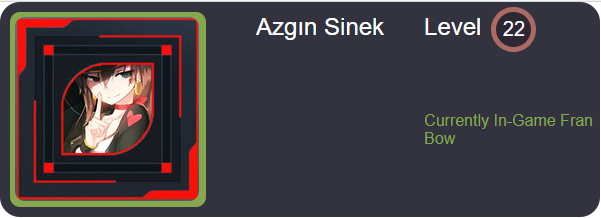
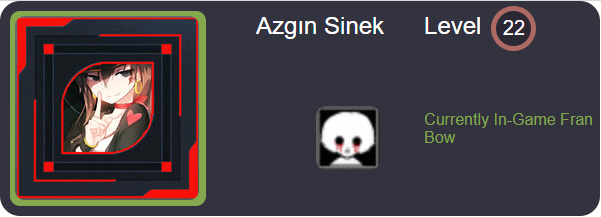
SteamCard V1.0

diff --git a/CreateCard.js b/CreateCard.js
@@ -2,27 +2,22 @@ let Userid = "";
 // Ur own steam id64
 let webkey = ""
 // ur own steam web api key
+
+// URLS
 const sumaryUrl = `https://corsproxy.io/?https%3A%2F%2Fapi.steampowered.com/ISteamUser/GetPlayerSummaries/v0002/?key=${webkey}&steamids=${Userid}`
 const badgeUrl =`https://corsproxy.io/?https%3A%2F%2Fapi.steampowered.com/IPlayerService/GetSteamLevel/v1/?key=${webkey}&steamid=${Userid}`
 
 const gamesURL = `https://corsproxy.io/?https%3A%2F%2Fapi.steampowered.com/IPlayerService/GetOwnedGames/v1/?key=${webkey}&format=json&steamid=${Userid}&include_appinfo=1`
 
+// FETCHS
 
-let summary = await fetch(sumaryUrl)
-.then(res => res.json())
-.then(data => {
-    return data
-});
+let summary = await fetch(sumaryUrl).then(res => res.json()).then(data => {return data});
 let level = await fetch(badgeUrl).then(res => res.json()).then(data => {return data});
-
 let mygame = await fetch(gamesURL).then(res => res.json()).then(data => {return data});
-console.log(level)
-console.log(summary)
 
+// FUNCTION
 
-
-
-function createAcard(userdata, leveldata) {
+function createAcard(userdata, leveldata, games) {
 
     //all card elements
 
@@ -34,6 +29,7 @@ function createAcard(userdata, leveldata) {
             avatarimg = document.createElement('img'),
 
         firstdivmidarea = document.createElement('div'),
+        gameimgarea = document.createElement('div'),
         nickarea = document.createElement('div'),
             usernick = document.createElement('div'),
 
@@ -47,11 +43,15 @@ function createAcard(userdata, leveldata) {
         isActive = document.createElement('div');
 
 
+    // appends and add class
+
     firstdiv.classList.add("first")
     
     const ilkdiv = document.querySelector(".Steamcard");
     
     ilkdiv.appendChild(firstdiv);
+
+    // MAIN DIVS
 
     firstdiv.appendChild(firstdivleftarea);
         firstdivleftarea.classList.add("firstleft");
@@ -60,13 +60,20 @@ function createAcard(userdata, leveldata) {
     firstdiv.appendChild(firstdivrightarea);
         firstdivrightarea.classList.add("firstright");
 
+        //LEFT DIVS
     firstdivleftarea.appendChild(avatarcolorarea);
     avatarcolorarea.appendChild(avatararea);
         avatararea.classList.add("area")
     avatararea.appendChild(avatarimg);
 
+        //MID DIVS
+
     firstdivmidarea.appendChild(nickarea);
+    firstdivmidarea.appendChild(gameimgarea);
+        gameimgarea.classList.add("GameIconArea");
     nickarea.appendChild(usernick);
+
+        //RIGHT DIVS
 
     firstdivrightarea.appendChild(levelarea);
         levelarea.appendChild(leveltext);
@@ -75,6 +82,7 @@ function createAcard(userdata, leveldata) {
                 levelcirclein.appendChild(levelcircletext);
     firstdivrightarea.appendChild(badgearea);
     firstdivrightarea.appendChild(isActive);
+
     //firstdiv left area
 
     //avatar border colors
@@ -113,6 +121,7 @@ function createAcard(userdata, leveldata) {
     newImg.src = userdata.response.players[0].avatarfull;
 
     avatarimg.classList.add('avatarCSS')
+    
     //firstdiv Mid area
 
     usernick.textContent = `${userdata.response.players[0].personaname}`
@@ -123,6 +132,7 @@ function createAcard(userdata, leveldata) {
 
 
     // level
+
     leveltext.textContent = "Level";
     levelcircletext.textContent = `${leveldata.response.player_level}`;
     levelcircle.classList.add("circleCSS");
@@ -130,7 +140,9 @@ function createAcard(userdata, leveldata) {
     levelcircletext.classList.add("circletext");
     leveltext.classList.add("leveltext");
     levelarea.classList.add("levelarea");
+
     //first digit of level
+
     const firstdigitlevel = String(leveldata.response.player_level)[0];
     switch (parseInt(firstdigitlevel)){
         case 0:
@@ -171,6 +183,27 @@ function createAcard(userdata, leveldata) {
             isActive.textContent = `Currently In-Game ${userdata.response.players[0].gameextrainfo}`
             isActive.classList.add("game-text-color")
 
+            const gameimg = document.createElement('img');
+
+            gameimgarea.appendChild(gameimg);
+            gameimg.classList.add('gameimg');
+
+            let filted = games.response.games.filter(function(el){
+                return el.appid == userdata.response.players[0].gameid
+            })
+
+            console.log(filted)
+            var GameIcon = new Image();
+            GameIcon.onload = function () {
+                gameimg.src = this.src;
+            }
+            if(filted[0].img_icon_url){
+                GameIcon.src = `http://media.steampowered.com/steamcommunity/public/images/apps/${filted[0].appid}/${filted[0].img_icon_url}.jpg`;
+            } else if(filted[0].img_logo_url){
+                GameIcon.src = `http://media.steampowered.com/steamcommunity/public/images/apps/${filted[0].appid}/${filted[0].img_logo_url}.jpg`;
+            } else{
+                GameIcon.src = `https://github.com/CilginSinek/Steam-Status-Card/blob/UnExpress/%C4%B0mages/UngameStatusimage.png`;
+            }
         }
         else{
             isActive.textContent = `Currently Online`
@@ -185,4 +218,4 @@ function createAcard(userdata, leveldata) {
 
 }
 
-createAcard(summary, level);
+createAcard(summary, level, mygame);

diff --git a/card.css b/card.css
@@ -26,12 +26,15 @@
 }
 .firstmid{max-width: 300px;}
 .GameIconArea{
-    height: 124px;
-    width: 124px;
-    background-color: white;
-    border-radius: 30px;
-    margin-top: 15px;
-    margin-left: 10px;
+    height: 64px;
+    width: 64px;
+    margin-top: 60px;
+    margin-left: 60px;
+}
+.gameimg{
+    height: 64px;
+    width: 64px;
+    border-radius: 10px;
 }
 .UserNick{
     margin-top: 5px;

diff --git a/README.md b/README.md
@@ -28,4 +28,6 @@ add Your steamid64 and Steam Web API key
 ## Description
 -I using https://corsproxy.io/ for cors
 
-I'm still trying to show badges and games icons but that's all for now :p
+I'm still trying to show badges icons but that's all for now :p
+If the game doesn't have an icon, my own icon will view.
+Themes and small version coming soon
